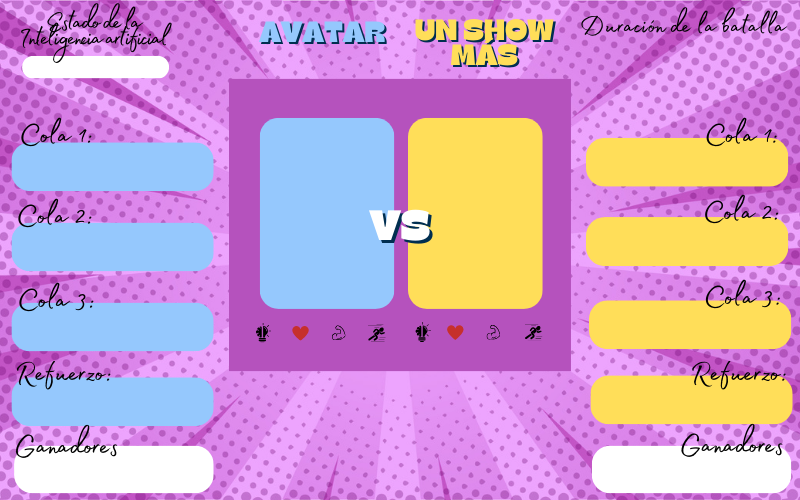
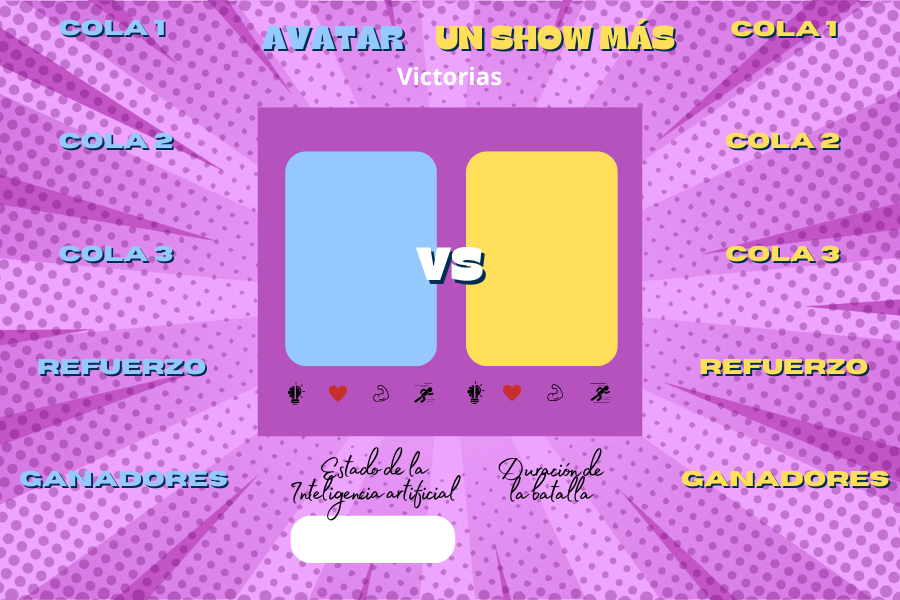
Solo falta revisar botón

diff --git a/Proyecto2/src/Estructuras/InteligenciaArtificial.java b/Proyecto2/src/Estructuras/InteligenciaArtificial.java
@@ -4,13 +4,16 @@
  */
 package Estructuras;
 
+import static Main.main.interfaz;
+import static java.lang.Thread.sleep;
 import java.util.Random;
 
 /**
  *
  * @author Ana Blanco
  */
-public class InteligenciaArtificial{
+public class InteligenciaArtificial {
+
     private int contadorParejas;
     private int dayDuration;
     private int contadorTorneos;
@@ -19,63 +22,94 @@ public class InteligenciaArtificial{
 
     public InteligenciaArtificial(int dayDuration, Simulacion simulacion) {
         this.dayDuration = dayDuration;
-        this.estado= "Trabajando";
+        this.estado = "Esperando";
         this.simulacion = simulacion;
     }
-    
-    public void batalla(Personaje personaje1, Personaje personaje2){
+
+    public void batalla(Personaje personaje1, Personaje personaje2) throws InterruptedException {
+        this.estado = "Decidiendo";
+        interfaz.getEstadoIA().setText(this.estado);
+        long valor1 = (long) (this.dayDuration * 0.5 * 1000);
+        sleep(valor1);
         Random random = new Random();
         int numprobabilidad = random.nextInt(101);
         System.out.println("-----------------------------------");
         System.out.println(numprobabilidad);
-        
+
         int puntajePersonaje1 = calcularPuntaje(personaje1);
         int puntajePersonaje2 = calcularPuntaje(personaje2);
-        
-        if(numprobabilidad >=0 && numprobabilidad<=40){ //Existir Ganador
-            if (puntajePersonaje1 >= puntajePersonaje2){
+
+        if (numprobabilidad <= 40) { //Existir Ganador
+            if (puntajePersonaje1 > puntajePersonaje2) {
                 System.out.println(personaje1.getId() + " Puntaje: " + puntajePersonaje1);
                 System.out.println(personaje2.getId() + " Puntaje: " + puntajePersonaje2);
                 System.out.println("El ganador es: " + personaje1.getId());
                 personaje1.setWinner(true);
                 personaje2.setWinner(false);
-               // personaje1.isWinner();
+                this.simulacion.getEstudio1().setVictorias(this.simulacion.getEstudio1().getVictorias() + 1);
+                interfaz.getVictoriasAVT().setText(Integer.toString(this.simulacion.getEstudio1().getVictorias()));
                 this.simulacion.getEstudio1().getQueueGanadores().Enqueue(personaje1);
-            }else{  // Personaje1 < Personaje2) 
+            } else {  // Personaje1 < Personaje2) 
                 System.out.println(personaje1.getId() + " Puntaje: " + puntajePersonaje1);
                 System.out.println(personaje2.getId() + " Puntaje: " + puntajePersonaje2);
                 System.out.println("El ganador es: " + personaje2.getId());
                 personaje1.setWinner(false);
                 personaje2.setWinner(true);
                 this.simulacion.getEstudio2().getQueueGanadores().Enqueue(personaje2);
-//                this.simulacion.getEstudio2().getQueueGanadores().EliminarPersonaje(personaje1);
+                this.simulacion.getEstudio2().setVictorias(this.simulacion.getEstudio2().getVictorias() + 1);
+                interfaz.getVictoriasUSM().setText(Integer.toString(this.simulacion.getEstudio2().getVictorias()));
             }
-            
-        }else if(numprobabilidad >40 && numprobabilidad<= 67){ //Empate
+
+        } else if (numprobabilidad > 40 && numprobabilidad <= 67) { //Empate
             System.out.println(personaje1.getId());
             System.out.println(personaje2.getId());
+            personaje1.setWinner(false);
+            personaje2.setWinner(false);
             System.out.println("Ocurrio un empate, los personajes vuelven a la cola 1");
             this.simulacion.getEstudio1().getQueue1().Enqueue(personaje1);
             this.simulacion.getEstudio2().getQueue1().Enqueue(personaje2);
-            
-        }else if(numprobabilidad>67 && numprobabilidad<=100){ //No llevarse acabo
+
+        } else if (numprobabilidad > 67 && numprobabilidad <= 100) { //No llevarse acabo
             System.out.println(personaje1.getId());
             System.out.println(personaje2.getId());
+            personaje1.setWinner(null);
+            personaje2.setWinner(null);
             System.out.println("La batalla no puede llevarse acabo, se enviaran a la cola de refuerzo");
             this.simulacion.getEstudio1().getQueueRefuerzo().Enqueue(personaje1);
             this.simulacion.getEstudio2().getQueueRefuerzo().Enqueue(personaje2);
         }
+
+        ShowWinners(personaje1, personaje2);
     }
-    
-    public int calcularPuntaje(Personaje personaje){
+
+    public int calcularPuntaje(Personaje personaje) {
         int habilidad = personaje.getCaracteristicas()[0];
         int vida = personaje.getCaracteristicas()[1];
         int fuerza = personaje.getCaracteristicas()[2];
         int agilidad = personaje.getCaracteristicas()[3];
-        
+
         return habilidad + vida + fuerza + agilidad;
     }
-    
+
+    public void ShowWinners(Personaje personaje1, Personaje personaje2) throws InterruptedException {
+        //Mostrar ganador
+        try {
+            if ((boolean) personaje1.isWinner() == true) {
+                interfaz.getEstadoIA().setText("Ganador: " + personaje1.getId());
+            }
+            if ((boolean) personaje2.isWinner() == true) {
+                interfaz.getEstadoIA().setText("Ganador: " + personaje2.getId());
+            } else {
+                interfaz.getEstadoIA().setText("Empate");
+            }
+        } catch (Exception e) {
+            interfaz.getEstadoIA().setText("No hay combate");
+        }
+
+        long valor1 = (long) (this.dayDuration * 0.25 * 1000);
+        sleep(valor1);
+    }
+
     //GETTERS AND SETTERS
     public int getContadorParejas() {
         return contadorParejas;
@@ -101,5 +135,11 @@ public class InteligenciaArtificial{
         this.contadorTorneos = contadorTorneos;
     }
 
-    
+    public String getEstado() {
+        return estado;
+    }
+
+    public void setEstado(String estado) {
+        this.estado = estado;
+    }
 }

diff --git a/Proyecto2/src/Interfaz/Simulación.java b/Proyecto2/src/Interfaz/Simulación.java
@@ -72,7 +72,9 @@ public class Simulación extends javax.swing.JFrame {
         ColaGanadoresUSM = new javax.swing.JTextArea();
         colaganadoresavatar = new javax.swing.JScrollPane();
         ColaGanadoresAVT = new javax.swing.JTextArea();
-        jLabel2 = new javax.swing.JLabel();
+        VictoriasAVT = new javax.swing.JLabel();
+        VictoriasUSM = new javax.swing.JLabel();
+        jLabel1 = new javax.swing.JLabel();
 
         setDefaultCloseOperation(javax.swing.WindowConstants.EXIT_ON_CLOSE);
         getContentPane().setLayout(new org.netbeans.lib.awtextra.AbsoluteLayout());
@@ -198,7 +200,7 @@ public class Simulación extends javax.swing.JFrame {
         EstadoIA.setFont(new java.awt.Font("Segoe UI", 1, 14)); // NOI18N
         EstadoIA.setHorizontalAlignment(javax.swing.SwingConstants.CENTER);
         EstadoIA.setText("jLabel3");
-        getContentPane().add(EstadoIA, new org.netbeans.lib.awtextra.AbsoluteConstraints(320, 530, 110, -1));
+        getContentPane().add(EstadoIA, new org.netbeans.lib.awtextra.AbsoluteConstraints(300, 530, 150, -1));
         getContentPane().add(DuracionBatalla, new org.netbeans.lib.awtextra.AbsoluteConstraints(500, 520, 100, -1));
 
         CompetidorUSM.setIcon(new javax.swing.ImageIcon(getClass().getResource("/PersonajesUnShowMas/Gary.png"))); // NOI18N
@@ -234,14 +236,22 @@ public class Simulación extends javax.swing.JFrame {
 
         getContentPane().add(colaganadoresavatar, new org.netbeans.lib.awtextra.AbsoluteConstraints(10, 500, 220, 80));
 
-        jLabel2.setIcon(new javax.swing.ImageIcon(getClass().getResource("/Imagenes/Colorful INTERFAZ (800 x 500 px) (2).png"))); // NOI18N
-        getContentPane().add(jLabel2, new org.netbeans.lib.awtextra.AbsoluteConstraints(0, 0, -1, -1));
+        VictoriasAVT.setText("0");
+        getContentPane().add(VictoriasAVT, new org.netbeans.lib.awtextra.AbsoluteConstraints(337, 70, 50, -1));
+
+        VictoriasUSM.setText("0");
+        getContentPane().add(VictoriasUSM, new org.netbeans.lib.awtextra.AbsoluteConstraints(540, 70, 80, -1));
+
+        jLabel1.setIcon(new javax.swing.ImageIcon(getClass().getResource("/Imagenes/Colorful INTERFAZ (800 x 500 px).png"))); // NOI18N
+        getContentPane().add(jLabel1, new org.netbeans.lib.awtextra.AbsoluteConstraints(0, 0, -1, -1));
 
         pack();
     }// </editor-fold>//GEN-END:initComponents
 
     private void jButton1ActionPerformed(java.awt.event.ActionEvent evt) {//GEN-FIRST:event_jButton1ActionPerformed
-        simulacion.setTime((int)DuracionBatalla.getValue()*1000);
+        int duracion = (int)DuracionBatalla.getValue();
+        simulacion.getAI().setDayDuration(duracion);
+        simulacion.setTime(duracion*1000);
     }//GEN-LAST:event_jButton1ActionPerformed
 
     public JLabel getAgilidadAVT() {
@@ -508,12 +518,20 @@ public class Simulación extends javax.swing.JFrame {
         this.jButton1 = jButton1;
     }
 
-    public JLabel getjLabel2() {
-        return jLabel2;
+    public JLabel getVictoriasAVT() {
+        return VictoriasAVT;
     }
 
-    public void setjLabel2(JLabel jLabel2) {
-        this.jLabel2 = jLabel2;
+    public void setVictoriasAVT(JLabel VictoriasAVT) {
+        this.VictoriasAVT = VictoriasAVT;
+    }
+
+    public JLabel getVictoriasUSM() {
+        return VictoriasUSM;
+    }
+
+    public void setVictoriasUSM(JLabel VictoriasUSM) {
+        this.VictoriasUSM = VictoriasUSM;
     }
 
     public JPanel getjPanel1() {
@@ -598,6 +616,8 @@ public class Simulación extends javax.swing.JFrame {
     private javax.swing.JLabel NombreCompetidorUSM;
     private javax.swing.JTextArea RefuerzoAVT;
     private javax.swing.JTextArea RefuerzoUSM;
+    private javax.swing.JLabel VictoriasAVT;
+    private javax.swing.JLabel VictoriasUSM;
     private javax.swing.JLabel VidaAVT;
     private javax.swing.JLabel VidaUSM;
     private javax.swing.JScrollPane cola1avatar;
@@ -609,7 +629,7 @@ public class Simulación extends javax.swing.JFrame {
     private javax.swing.JScrollPane colaganadoresavatar;
     private javax.swing.JScrollPane colaganadoresunshowmas;
     private javax.swing.JButton jButton1;
-    private javax.swing.JLabel jLabel2;
+    private javax.swing.JLabel jLabel1;
     private javax.swing.JPanel jPanel1;
     private javax.swing.JScrollPane refuerzoavatar;
     private javax.swing.JScrollPane refuerzounshowmas;

diff --git a/Proyecto2/src/Estructuras/Simulacion.java b/Proyecto2/src/Estructuras/Simulacion.java
@@ -8,6 +8,7 @@ import static Main.main.simulacion;
 import static Main.main.interfaz;
 import java.io.File;
 import java.io.IOException;
+import java.util.Random;
 import java.util.logging.Level;
 import java.util.logging.Logger;
 import javax.imageio.ImageIO;
@@ -43,19 +44,28 @@ public class Simulacion extends Thread {
         }
         while (true) {
             Personaje[] competidores = this.admin.EscogerPersonajes();
-            ActualizarLabels(competidores);
-            this.AI.batalla(competidores[0], competidores[1]);
-            this.estudio1.inanicion();
-            this.estudio2.inanicion();
             try {
-                sleep(time * 1000);
+                ActualizarLabels(competidores);
             } catch (InterruptedException ex) {
                 Logger.getLogger(Simulacion.class.getName()).log(Level.SEVERE, null, ex);
             }
+            this.AI.setEstado("Esperando");
+            interfaz.getEstadoIA().setText(this.AI.getEstado());
+            long valor1 =  (long) (this.time*0.25*1000);
+            try {
+                sleep(valor1);
+                 this.AI.batalla(competidores[0], competidores[1]);
+            } catch (InterruptedException ex) {
+                Logger.getLogger(Simulacion.class.getName()).log(Level.SEVERE, null, ex);
+            }
+            this.estudio1.inanicion();
+            this.estudio2.inanicion();
+            this.estudio1.UpdateRefuerzo();
+            this.estudio2.UpdateRefuerzo();
         }
     }
 
-    public void ActualizarLabels(Personaje[] competidores) {
+    public void ActualizarLabels(Personaje[] competidores) throws InterruptedException {
         //Estudio1 (AVATAR)
         interfaz.getCola1AVT().setText(this.estudio1.getQueue1().print());
         interfaz.getCola2AVT().setText(this.estudio1.getQueue2().print());
@@ -83,17 +93,6 @@ public class Simulacion extends Thread {
         interfaz.getAgilidadUSM().setText(Integer.toString(competidores[1].getCaracteristicas()[3]));
         interfaz.getColaGanadoresUSM().setText(this.estudio2.getQueueGanadores().print());
 
-        //Mostrar ganador
-        if (competidores[0].isWinner()){
-                interfaz.getEstadoIA().setText("Ganador: " + competidores[0].getId());
-        } else if (competidores[1].isWinner()) {
-            interfaz.getEstadoIA().setText("Ganador: " + competidores[1].getId());
-        } else {
-            interfaz.getEstadoIA().setText("Empate");
-        }
-        
-        
-        
         
         try {
             interfaz.getCompetidorAVT().setIcon(new ImageIcon(ImageIO.read(new File(competidores[0].getDatos()[0]))));
@@ -103,6 +102,7 @@ public class Simulacion extends Thread {
         }
 
     }
+   
 
     //GETTERS AND SETTERS
     public Estudio getEstudio1() {

diff --git a/Proyecto2/src/Estructuras/Estudio.java b/Proyecto2/src/Estructuras/Estudio.java
@@ -19,6 +19,7 @@ public class Estudio {
     private Queue queueRefuerzo;
     private Queue queueGanadores;
     private int contadorPersonajes;
+    private int victorias;
 
     public Estudio(String nombre) {
         this.nombre = nombre;
@@ -28,6 +29,7 @@ public class Estudio {
         this.queueRefuerzo = new Queue<Personaje>();
         this.queueGanadores = new Queue<Personaje>();
         this.contadorPersonajes = 0;
+        this.victorias = 0;
     }
 
     public Personaje GeneradorPersonajes() {
@@ -76,8 +78,8 @@ public class Estudio {
         return personaje;
 
     }
-    
-    public void inanicion() { 
+
+    public void inanicion() {
         //Pasar de prioridad 2 a 1
         Node pAux = null;
         if (!queue2.isEmpty()) {
@@ -113,6 +115,21 @@ public class Estudio {
             }
             pAux2 = pAux2.getpNext();
         }
+    }
+
+    public void UpdateRefuerzo() {
+
+        Random random = new Random();
+        int numprobabilidad = random.nextInt(101);
+        if (!this.queueRefuerzo.isEmpty()) {
+            Personaje personaje = (Personaje) this.queueRefuerzo.Dequeue().getData();
+            if (numprobabilidad <= 40) {
+                this.queue1.Enqueue(personaje);
+            }else{
+                this.queueRefuerzo.Enqueue(personaje);
+            }
+        }
+
     }
 
     //GETTERS AND SETTERS
@@ -170,6 +187,14 @@ public class Estudio {
 
     public void setQueueGanadores(Queue queueGanadores) {
         this.queueGanadores = queueGanadores;
+    }
+
+    public int getVictorias() {
+        return victorias;
+    }
+
+    public void setVictorias(int victorias) {
+        this.victorias = victorias;
     }
 
 }

diff --git a/Proyecto2/src/Estructuras/Personaje.java b/Proyecto2/src/Estructuras/Personaje.java
@@ -10,12 +10,12 @@ import java.util.Random;
  *
  * @author Ana Blanco
  */
-public class Personaje {
+public class Personaje<T> {
     private String id;
     private String[] datos; // {url, nombre}
     private int prioridad;
     private String estudio; 
-    private boolean winner;
+    private T winner;
     private int[] caracteristicas; //array con los valores de habilidad, vida, fuerza y agilidad
     private int contadorCiclos;
     
@@ -83,11 +83,11 @@ public class Personaje {
         this.prioridad = prioridad;
     }
 
-    public boolean isWinner() {
+    public T isWinner() {
         return winner;
     }
 
-    public void setWinner(boolean winner) {
+    public void setWinner(T winner) {
         this.winner = winner;
     }
 
